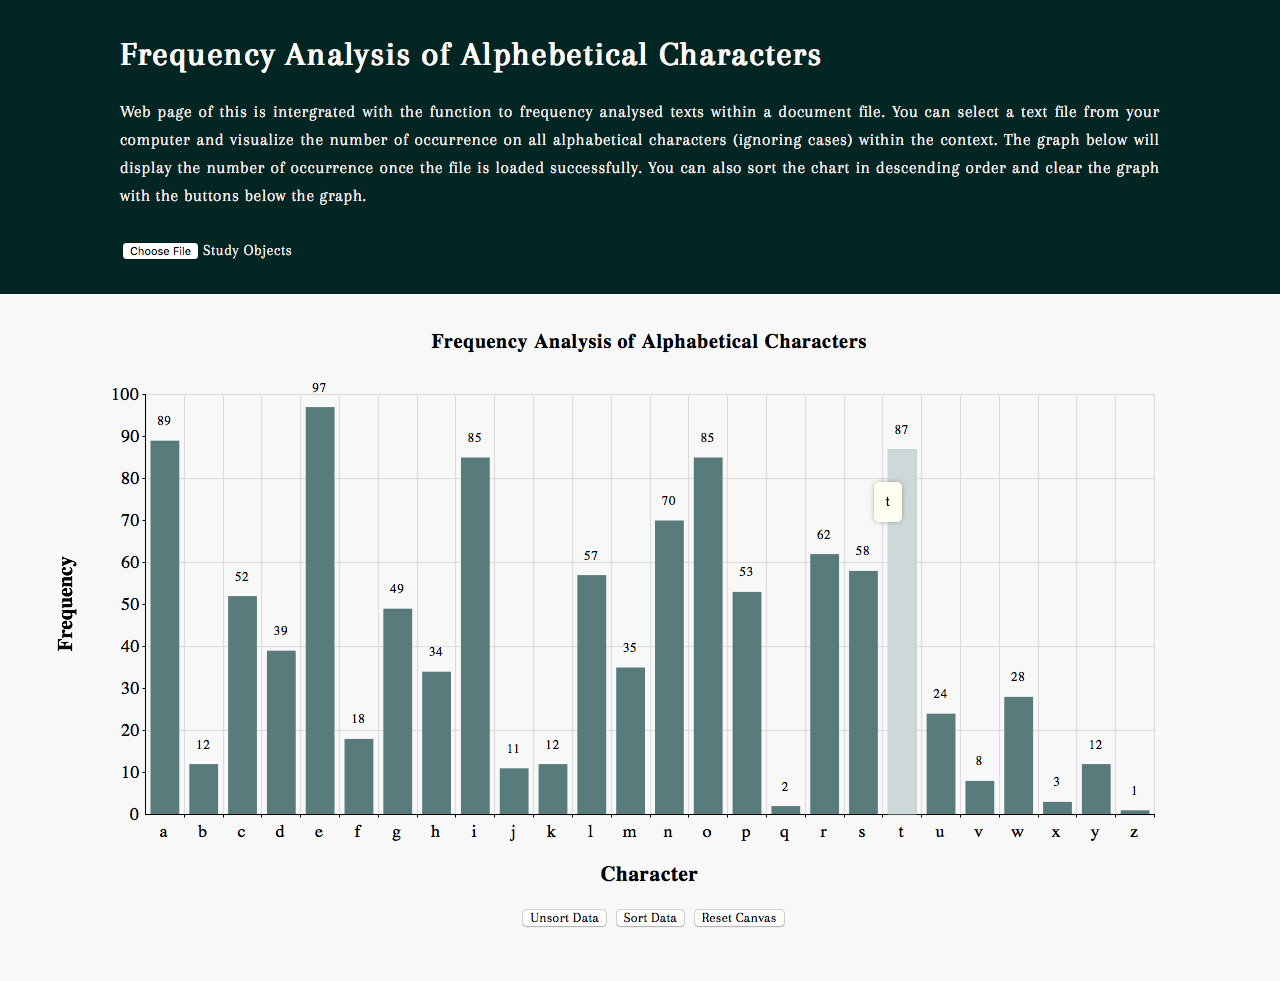
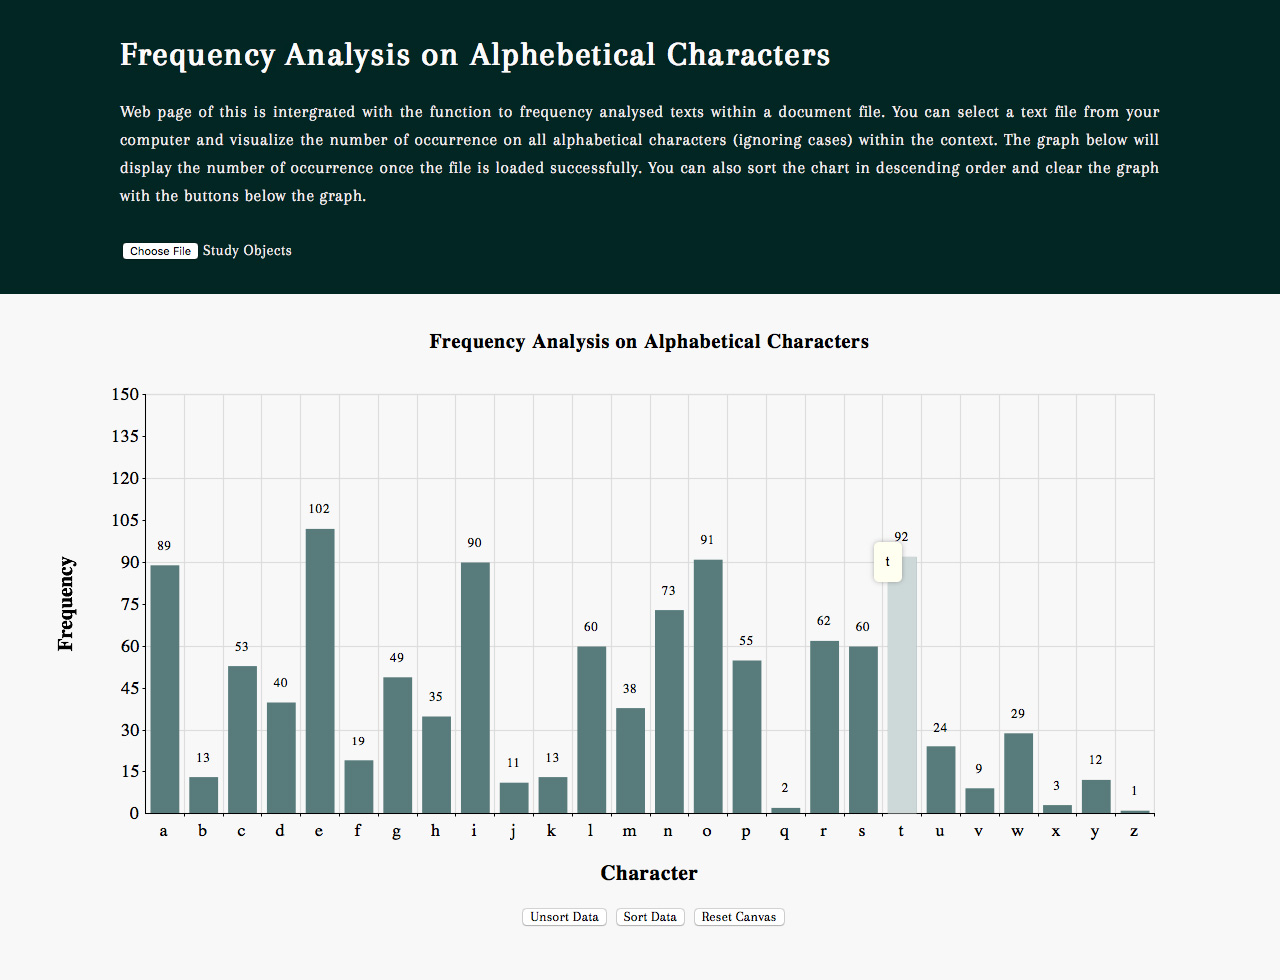
Modify title of the graph and preview image

diff --git a/js/program.js b/js/program.js
@@ -42,7 +42,7 @@ function drawBar (data, labels) {
             textSize: 13.5,
             labelsAbove: true,
             labelsAboveOffset: 2,
-            title: "Frequency Analysis of Alphabetical Characters",
+            title: "Frequency Analysis on Alphabetical Characters",
             titleSize: 15,
             titleY: -22,
             titleBold: true,
